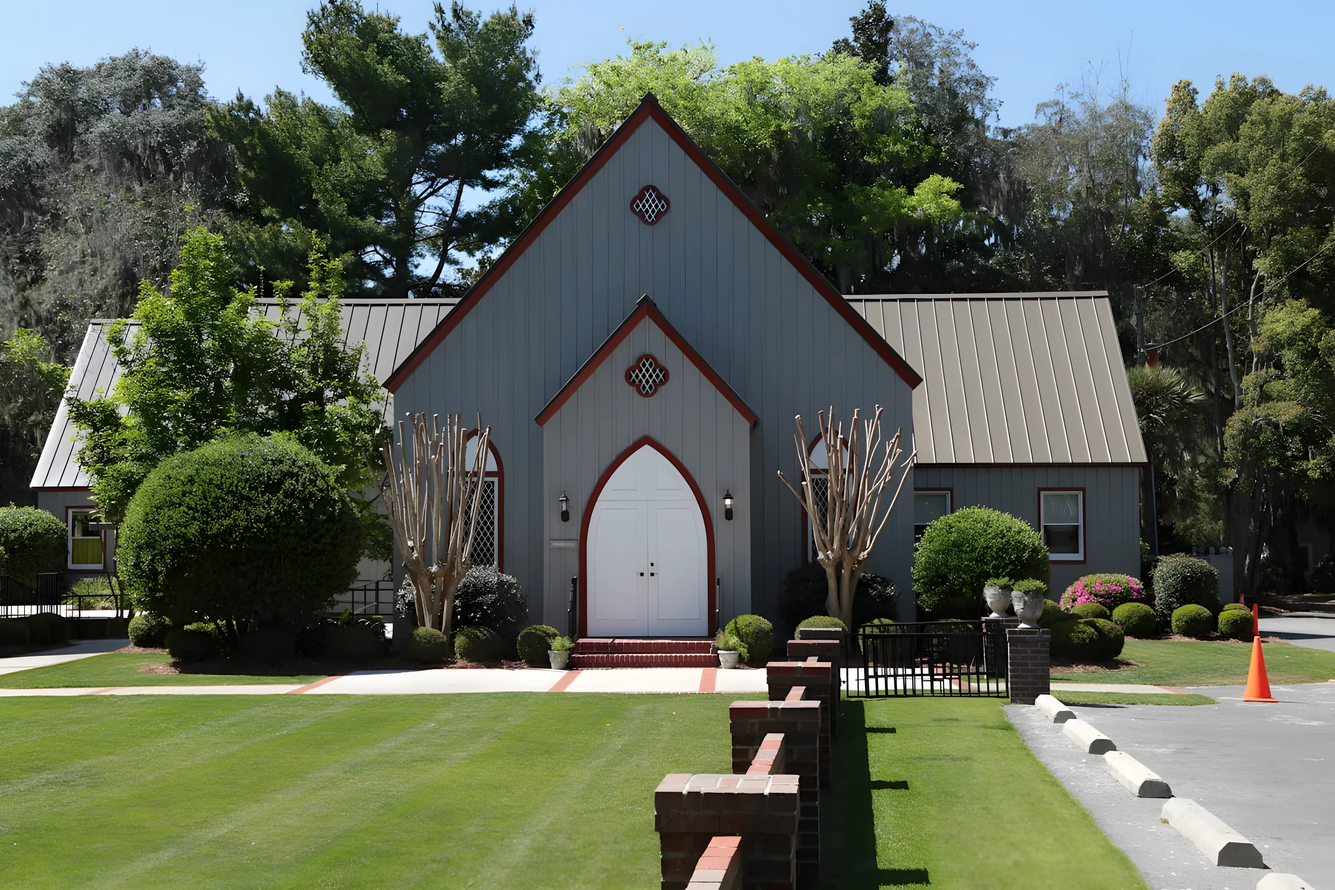
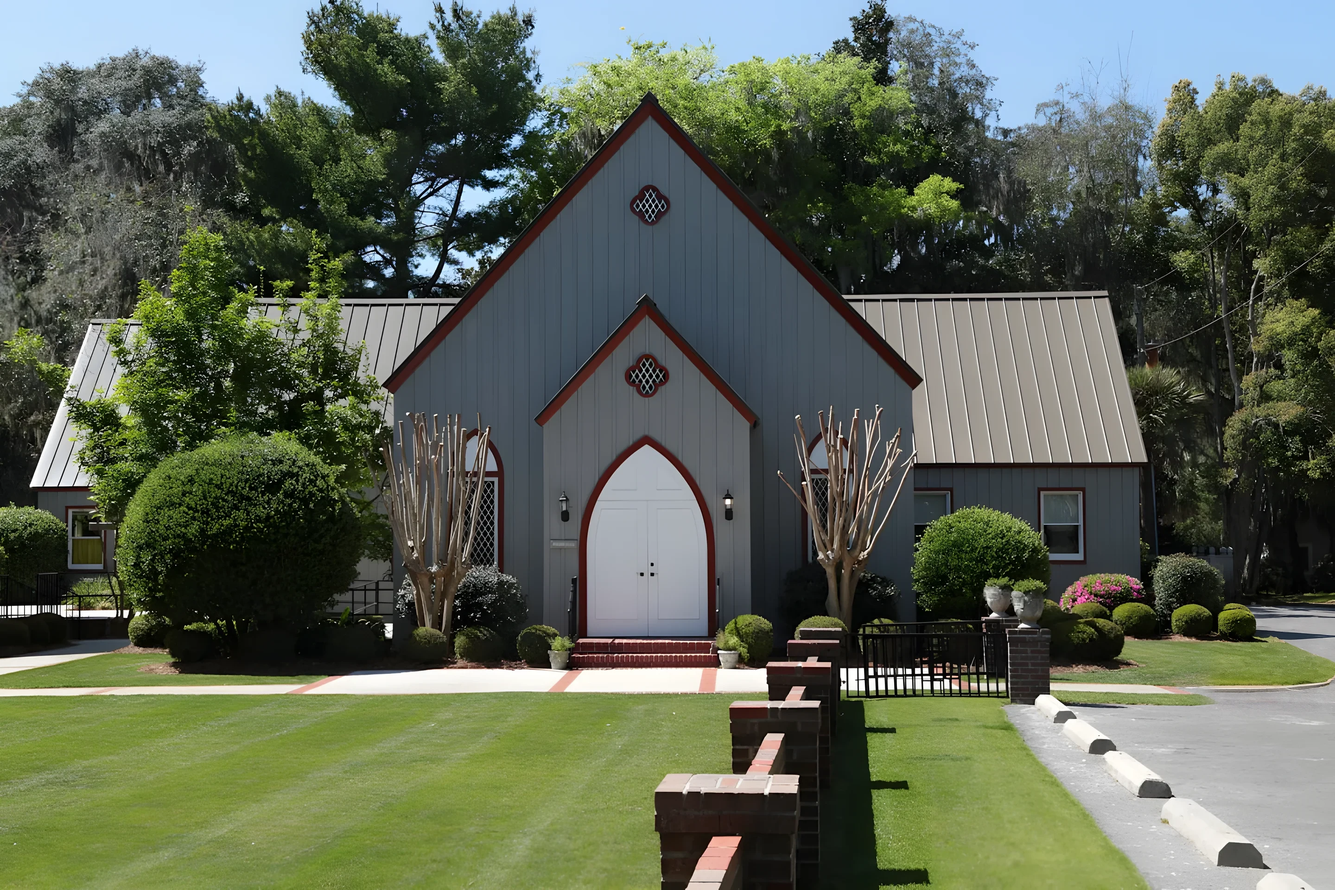
Featured work serif titles, drop Backyard Retreat, cone-free commercial hero, swap water feature card photos
- Featured work card titles now use the heading serif (Editor's Note) instead of Figtree bold
- Remove the Backyard Retreat project from the homepage featured work carousel
- Remove orange traffic cones from the commercial hero photo (shared by both commercial pages)
- Swap the Custom Pond Installation and Fountain Installation card photos on the water features page

Changed region(s): [[0.9062, 0.6562, 1.0, 0.8125]]

diff --git a/new-website/app/water-features-northern-virginia/page.tsx b/new-website/app/water-features-northern-virginia/page.tsx
@@ -85,8 +85,8 @@ export default function WaterFeaturesPage() {
                 num: '01',
                 title: 'Custom Pond Installation',
                 desc: 'From intimate koi sanctuaries to natural swimming ponds and reflection pools, we design and build custom water ecosystems tailored to your landscape and lifestyle.',
-                img: cdnToLocal('/media/6808afe22b48076cc8e63cef/686b7caebf8b5d7ad36bb774_folder-2-3.webp'),
-                alt: 'Illuminated koi pond and waterfall glowing green at night beside a stone patio and fireplace.',
+                img: cdnToLocal('/media/6808afe22b48076cc8e63cef/688287c75f22cbb21d340914_aquatic.jpg'),
+                alt: 'Reflective pond bordered by ornamental trees and grasses on a landscaped property.',
               },
               {
                 num: '02',
@@ -99,8 +99,8 @@ export default function WaterFeaturesPage() {
                 num: '03',
                 title: 'Fountain Installation',
                 desc: 'From classical tiered designs to contemporary sculptures and floating features, our custom fountains bring movement, sound, and artistry to any outdoor setting.',
-                img: cdnToLocal('/media/6808afe22b48076cc8e63cef/688287c75f22cbb21d340914_aquatic.jpg'),
-                alt: 'Reflective pond bordered by ornamental trees and grasses on a landscaped property.',
+                img: cdnToLocal('/media/6808afe22b48076cc8e63cef/686b7caebf8b5d7ad36bb774_folder-2-3.webp'),
+                alt: 'Illuminated koi pond and waterfall glowing green at night beside a stone patio and fireplace.',
               },
             ].map((card) => (
               <ServiceCard

diff --git a/new-website/components/home/HomeVersionB.tsx b/new-website/components/home/HomeVersionB.tsx
@@ -22,19 +22,6 @@ const featuredWork = [
     ],
   },
   {
-    img: cdnToLocal('/media/6808afe22b48076cc8e63cef/686b7d113c21f26f490bb45a_folder-2-cover-1.webp'),
-    alt: 'Backyard landscape design project in Ashburn Virginia',
-    name: 'Backyard Retreat',
-    location: 'Ashburn, VA',
-    images: [
-      { src: cdnToLocal('/media/6808afe22b48076cc8e63cef/686b7d113c21f26f490bb45a_folder-2-cover-1.webp'), alt: 'Backyard landscape design project in Ashburn Virginia' },
-      { src: cdnToLocal('/media/6808afe22b48076cc8e63cef/686b7caf1811776d3267929d_folder-2-1.webp'), alt: 'Outdoor stone fireplace with a lit fire, surrounded by cushioned patio furniture, a koi pond with waterfall, and flowering plants at dusk.' },
-      { src: cdnToLocal('/media/6808afe22b48076cc8e63cef/686b7caebf8b5d7ad36bb774_folder-2-3.webp'), alt: 'Nighttime view of an illuminated koi pond with waterfall, stone patio seating, and an outdoor fireplace glowing against a dark blue sky.' },
-      { src: cdnToLocal('/media/6808afe22b48076cc8e63cef/686b7cb07b41400be77ba043_folder-2-4.webp'), alt: 'Stone patio with an outdoor fireplace, cushioned seating, and a built-in grill overlooking an open rolling landscape.' },
-      { src: cdnToLocal('/media/6808afe22b48076cc8e63cef/686b7caeb433ebe730947285_folder-2-5.webp'), alt: 'Koi pond with a stone waterfall and stepping-stone path, flanked by an outdoor stone fireplace and patio seating on a sunny day.' },
-    ],
-  },
-  {
     img: cdnToLocal('/media/6808afe22b48076cc8e63cef/686b7e1387270569bd211cb9_folder-3-cover.webp'),
     alt: 'Estate landscape design in full bloom in Vienna Virginia',
     name: 'Estate Garden',

diff --git a/new-website/components/FeaturedWorkCarousel.tsx b/new-website/components/FeaturedWorkCarousel.tsx
@@ -306,7 +306,7 @@ export default function FeaturedWorkCarousel({
                       </p>
                     )}
                     <p
-                      className="text-white font-ui font-bold leading-tight"
+                      className="text-white font-heading font-normal leading-none"
                       style={{ fontSize: 'clamp(2rem, 3.5vw, 4rem)' }}
                     >
                       {project.name}
